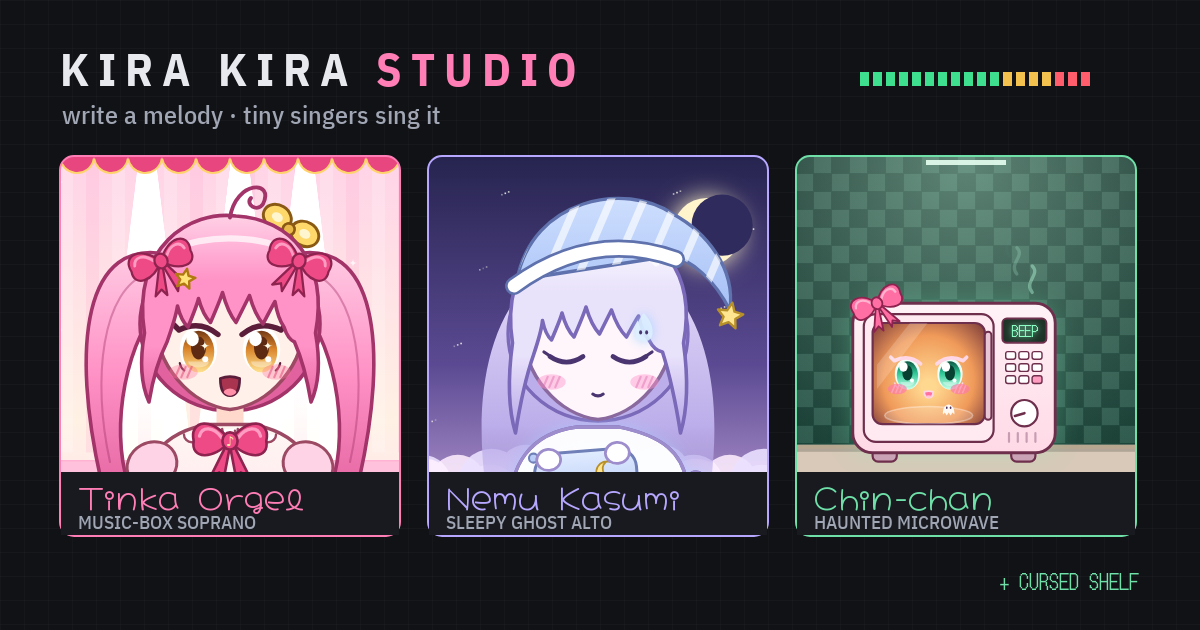
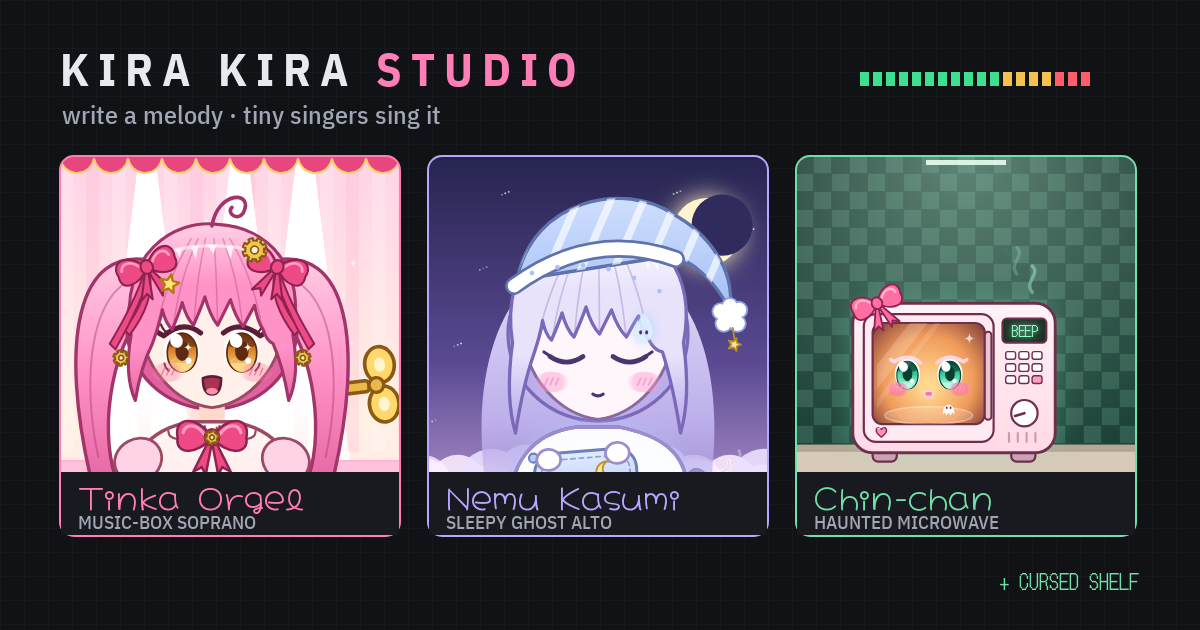
Kira Kira Studio v1.2: portrait polish for pochinia - layered anime eyes, softer blush, hair shine, Tinka's wind-up key and gear charms, Nemu's pom, tail wisps and stitched pillow, a heart sticker on Chin-chan

diff --git a/apps/kirakira-studio/index.html b/apps/kirakira-studio/index.html
@@ -202,7 +202,7 @@ footer{display:flex;justify-content:space-between;gap:.5rem;flex-wrap:wrap;font-
   </section>
 
   <footer><span>Original singers. Public-domain melodies + one original jingle. Every voice is synthesised in your browser.</span>
-    <span id="buildstamp" role="note" aria-label="Build information">build v1.1 · 2026-10-10</span></footer>
+    <span id="buildstamp" role="note" aria-label="Build information">build v1.2 · 2026-10-10</span></footer>
 </main>
 
 <div class="transport" role="region" aria-label="Transport">
@@ -698,12 +698,138 @@ var EXTRAS = {
   }
 };
 
+/* ---------- the backing band: key + chords from the melody, then drums/bass/keys per genre ---------- */
+var KPROF = [6.35, 2.23, 3.48, 2.33, 4.38, 4.09, 2.52, 5.19, 2.39, 3.66, 2.29, 2.88];
+var DEG = [[0, 0], [2, 1], [4, 1], [5, 0], [7, 0], [9, 1]], DEGP = [.35, .05, 0, .2, .28, .15];
+function keyOf(tl){
+  var h = new Array(12).fill(0); tl.forEach(function(x){ h[((x.p % 12) + 12) % 12] += x.d; });
+  var best = 0, bs = -1e9;
+  for (var k = 0; k < 12; k++) { var s = 0; for (var i = 0; i < 12; i++) s += h[(i + k) % 12] * KPROF[i]; if (s > bs) { bs = s; best = k; } }
+  return best;
+}
+function chordsFor(tl, key, segs, seg8){
+  /* one chord per half bar: chord tones score, clashes cost, staying put and I at both ends are cheap */
+  var out = [], prev = 0;
+  for (var h = 0; h < segs; h++) {
+    var a = h * seg8, b = a + seg8, best = prev, bs = -1e9, any = false;
+    for (var c = 0; c < DEG.length; c++) {
+      var root = (key + DEG[c][0]) % 12, tones = DEG[c][1] ? [0, 3, 7] : [0, 4, 7], s = DEGP[c] + (c === prev ? .3 : 0);
+      if (h === 0 && c === 0) s += .8;
+      if (h >= segs - 2 && c === 0) s += h === segs - 1 ? 1.4 : .2;
+      tl.forEach(function(x){
+        var o = Math.min(b, x.t8 + x.d) - Math.max(a, x.t8); if (o <= 0) return; any = true;
+        var iv = (((x.p % 12) + 12) % 12 - root + 12) % 12;
+        s += o * (tones.indexOf(iv) >= 0 ? 1 : [0, 2, 4, 5, 7, 9, 11].indexOf((iv + root - key + 24) % 12) >= 0 ? -.25 : -1.2);
+      });
+      if (s > bs) { bs = s; best = c; }
+    }
+    if (!any) best = prev;
+    out.push({ root: (key + DEG[best][0]) % 12, minor: DEG[best][1], deg: best });
+    prev = best;
+  }
+  return out;
+}
+function bOsc(buf, sr, t, dur, f, o){
+  /* o: wave saw|tri|sine, amp, atk, dec (exp decay s) or 0 = sustain, rel, lp (one-pole cutoff Hz), det (cents), drive */
+  var a = Math.round(t * sr), n = Math.round((dur + (o.rel || .02)) * sr), ph = Math.random(), ph2 = Math.random(), lp1 = 0, lp2 = 0;
+  var k = o.lp ? 1 - Math.exp(-2 * Math.PI * o.lp / sr) : 1, f2 = f * Math.pow(2, (o.det || 0) / 1200), atk = o.atk || .004, rel = o.rel || .02;
+  for (var j = 0; j < n; j++) {
+    var i = a + j; if (i < 0) continue; if (i >= buf.length) break;
+    var tt = j / sr, e = Math.min(1, tt / atk) * (o.dec ? Math.exp(-tt / o.dec) : 1) * (tt > dur ? Math.max(0, 1 - (tt - dur) / rel) : 1);
+    ph += f / sr; if (ph >= 1) ph -= 1; ph2 += f2 / sr; if (ph2 >= 1) ph2 -= 1;
+    var s;
+    if (o.wave === 'saw') s = (2 * ph - 1) + (o.det ? 2 * ph2 - 1 : 0);
+    else if (o.wave === 'tri') s = (ph < .5 ? 4 * ph - 1 : 3 - 4 * ph);
+    else s = Math.sin(6.2832 * ph) + (o.h2 ? o.h2 * Math.sin(12.566 * ph) : 0) + (o.h3 ? o.h3 * Math.sin(18.85 * ph) * Math.exp(-tt * 6) : 0);
+    if (o.drive) s = Math.tanh(s * o.drive);
+    lp1 += (s - lp1) * k; lp2 += (lp1 - lp2) * k;
+    buf[i] += (o.lp ? lp2 : s) * e * (o.amp || .2);
+  }
+}
+function bDrum(buf, sr, t, kind, amp, rnd){
+  var n, a = Math.round(t * sr), ph = 0, lp = 0, hp = 0, prev = 0;
+  if (kind === 'kick') { n = Math.round(.32 * sr); for (var j = 0; j < n; j++) { var i = a + j; if (i < 0 || i >= buf.length) continue; var tt = j / sr, f = 45 + 95 * Math.exp(-tt * 28); ph += f / sr; buf[i] += Math.sin(6.2832 * ph) * Math.exp(-tt * 9) * amp + (j < 40 ? rnd() * .3 * amp * (1 - j / 40) : 0); } }
+  else if (kind === 'snare' || kind === 'rim') {
+    n = Math.round((kind === 'rim' ? .06 : .2) * sr);
+    for (j = 0; j < n; j++) { i = a + j; if (i < 0 || i >= buf.length) continue; tt = j / sr; var x = rnd(); hp = x - prev; prev = x; lp += (hp - lp) * .5;
+      ph += (kind === 'rim' ? 820 : 190) / sr; buf[i] += (lp * 1.1 * Math.exp(-tt * (kind === 'rim' ? 60 : 17)) + Math.sin(6.2832 * ph) * Math.exp(-tt * 30) * .6) * amp; }
+  } else if (kind === 'hat' || kind === 'crash' || kind === 'shaker') {
+    var len = kind === 'crash' ? 1.4 : kind === 'shaker' ? .07 : .045, dk = kind === 'crash' ? 2.6 : kind === 'shaker' ? 40 : 75;
+    n = Math.round(len * sr);
+    for (j = 0; j < n; j++) { i = a + j; if (i < 0 || i >= buf.length) continue; tt = j / sr; x = rnd(); hp = x - prev; prev = x; var sh = kind === 'shaker' ? Math.min(1, tt / .015) : 1; buf[i] += hp * .5 * Math.exp(-tt * dk) * sh * amp; }
+  }
+}
+var GENRES = {
+  pop:     { swing: 0,   lvl: .62, drums: 1 },
+  sad:     { swing: 0,   lvl: .5,  drums: 1 },
+  rock:    { swing: 0,   lvl: .75, drums: 1 },
+  lullaby: { swing: .16, lvl: .45, drums: 0 }
+};
+function hzm(m){ return 440 * Math.pow(2, (m - 69) / 12); }
+function band(song, P, genre, sr, N){
+  var G = GENRES[genre]; if (!G || !P.tl.length) return null;
+  var tl = P.tl, e8 = P.spb8, lead = P.lead, key = keyOf(tl), rnd = mkRnd(4242), buf = new Float32Array(N);
+  var last = 0; tl.forEach(function(x){ last = Math.max(last, x.t8 + x.d); });
+  var bars = Math.max(1, Math.ceil(last / 8)), segs = bars * 2, ch = chordsFor(tl, key, segs, 4);
+  /* keep the band in a friendly register whatever octave the singer is in */
+  function nearest(pc, around){ var m = around - 6 + ((pc - (around - 6)) % 12 + 12) % 12; return m; }
+  function at(e){ var sw = (e % 2 === 1) ? G.swing * e8 : 0; return lead + e * e8 + sw; }
+  function triad(c, around){ var r = nearest(c.root, around); return [r, r + (c.minor ? 3 : 4), r + 7]; }
+  /* one bar of count-in for the drums, a pickup for the keys */
+  if (G.drums) for (var q = 0; q < 4; q++) bDrum(buf, sr, lead - 8 * e8 + q * 2 * e8, genre === 'rock' ? 'rim' : 'hat', genre === 'rock' ? .5 : .55, rnd);
+  for (var h = 0; h < segs; h++) {
+    var c = ch[h], e0 = h * 4, bass = nearest(c.root, 40), tri = triad(c, 62);
+    if (genre === 'pop') {
+      bOsc(buf, sr, at(e0), e8 * 1.6, hzm(bass), { wave: 'tri', amp: .5, dec: .5, lp: 900, rel: .05 });
+      bOsc(buf, sr, at(e0 + 2), e8 * .9, hzm(bass + (h % 2 ? 7 : 12)), { wave: 'tri', amp: .38, dec: .4, lp: 900, rel: .05 });
+      bOsc(buf, sr, at(e0 + 3), e8 * .8, hzm(bass), { wave: 'tri', amp: .3, dec: .3, lp: 900, rel: .04 });
+      [1, 3].forEach(function(o){ tri.forEach(function(m){ bOsc(buf, sr, at(e0 + o), e8 * .7, hzm(m), { amp: .09, dec: .35, h2: .35, h3: .2, rel: .06 }); }); });
+      bDrum(buf, sr, at(e0), 'kick', .9, rnd); bDrum(buf, sr, at(e0 + 2), 'snare', .55, rnd);
+      if (h % 2) bDrum(buf, sr, at(e0 + 3), 'kick', .5, rnd);
+      for (q = 0; q < 4; q++) bDrum(buf, sr, at(e0 + q), 'hat', q % 2 ? .35 : .5, rnd);
+    } else if (genre === 'rock') {
+      var pr = nearest(c.root, 45);
+      for (q = 0; q < 4; q++) {
+        bOsc(buf, sr, at(e0 + q), e8 * .5, hzm(bass), { wave: 'saw', amp: .32, dec: .2, lp: 520, drive: 2.2, rel: .03 });
+        [pr, pr + 7, pr + 12].forEach(function(m){ bOsc(buf, sr, at(e0 + q), e8 * (q === 0 ? .9 : .45), hzm(m), { wave: 'saw', amp: .085, det: 9, drive: 5, lp: 2200, dec: q === 0 ? .6 : .12, rel: .03 }); });
+      }
+      bDrum(buf, sr, at(e0), 'kick', 1, rnd); bDrum(buf, sr, at(e0 + 2), 'snare', .8, rnd);
+      if (h % 2 === 0) bDrum(buf, sr, at(e0 + 1), 'kick', .55, rnd);
+      for (q = 0; q < 4; q++) bDrum(buf, sr, at(e0 + q), 'hat', .45, rnd);
+      if (h % 8 === 0) bDrum(buf, sr, at(e0), 'crash', .55, rnd);
+    } else if (genre === 'sad') {
+      bOsc(buf, sr, at(e0), e8 * 4, hzm(bass), { amp: .45, atk: .02, dec: 1.6, rel: .25, h2: .2 });
+      tri.forEach(function(m){ bOsc(buf, sr, at(e0), e8 * 4, hzm(m), { wave: 'saw', amp: .028, det: 12, atk: .35, lp: 900, rel: .4 }); });
+      var arp = [tri[0], tri[1] + 12, tri[2], tri[1] + 12 - (h % 2 ? 0 : 0)];
+      arp.forEach(function(m, k){ bOsc(buf, sr, at(e0 + k), e8 * 1.6, hzm(m + 12), { amp: .1, dec: .55, h2: .25, h3: .15, rel: .2 }); });
+      if (h % 2 === 0) bDrum(buf, sr, at(e0), 'kick', .45, rnd); else bDrum(buf, sr, at(e0), 'rim', .3, rnd);
+      bDrum(buf, sr, at(e0 + 2), 'shaker', .18, rnd);
+    } else if (genre === 'lullaby') {
+      if (h % 2 === 0) bOsc(buf, sr, at(e0), e8 * 7.5, hzm(bass + 12), { amp: .3, atk: .05, dec: 2.2, rel: .3 });
+      tri.forEach(function(m){ bOsc(buf, sr, at(e0), e8 * 4, hzm(m), { wave: 'tri', amp: .03, atk: .4, lp: 1400, rel: .5 }); });
+      [tri[0] + 12, tri[2] + 12, tri[1] + 24, tri[2] + 12].forEach(function(m, k){
+        var f = hzm(m); addTone(buf, sr, at(e0 + k), 1.2, [[f, 1, .6], [f * 2, .15, .2], [f * 6.27, .12, .04]], .07, 'bell');
+      });
+    }
+  }
+  /* last chord rings out on the downbeat after the song */
+  var lc = ch[segs - 1], lt = at(bars * 8), lb = nearest(lc.root, 40);
+  if (genre === 'rock') { bDrum(buf, sr, lt, 'crash', .8, rnd); bDrum(buf, sr, lt, 'kick', 1, rnd); [lb + 5, lb + 12, lb + 17].forEach(function(m){ bOsc(buf, sr, lt, 1.6, hzm(m), { wave: 'saw', amp: .08, det: 9, drive: 5, lp: 2200, dec: 1.2, rel: .3 }); }); }
+  else if (genre === 'lullaby') { var f = hzm(nearest(lc.root, 74)); addTone(buf, sr, lt, 2.4, [[f, 1, 1.2], [f * 2, .15, .4]], .08, 'bell'); }
+  else { triad(lc, 62).forEach(function(m){ bOsc(buf, sr, lt, 1.5, hzm(m), { amp: .1, dec: 1.1, h2: .3, rel: .3 }); }); bOsc(buf, sr, lt, 1.5, hzm(lb), { wave: genre === 'pop' ? 'tri' : 'sine', amp: .45, dec: 1, lp: 900, rel: .3 }); if (genre === 'pop') bDrum(buf, sr, lt, 'kick', .9, rnd); }
+  P.key = key; P.chords = ch; P.bandEnd = lt + 1.8;
+  return { buf: buf, lvl: G.lvl };
+}
+
 /* ---------- render a song for a bank ---------- */
 function render(song, V, sr){
   sr = sr || 32000;
+  var genre = GENRES[song.genre] ? song.genre : null;
+  if (genre) V = Object.assign({}, V, { lead: Math.max(V.lead || .3, 8 * 60 / song.bpm / 2 + .15) });
   var P = plan(song, V), tl = P.tl;
   if (V.cutPhrase) tl.forEach(function(x){ if (x.pEnd && x.d >= 3) x.cut = x.s + (x.e - x.s) * .55; });
   var end = (tl.length ? tl[tl.length - 1].e : P.lead) + (V.tail || 1.4);
+  if (genre && tl.length) { var last8 = 0; tl.forEach(function(x){ last8 = Math.max(last8, x.t8 + x.d); }); end = Math.max(end, P.lead + Math.ceil(last8 / 8) * 8 * P.spb8 + 2.2); }
   var N = Math.ceil(end * sr), out = new Float32Array(N);
   var parts = V.choir || [{}];
   parts.forEach(function(pt, k){ var p2 = Object.assign({ seed: 1234 + k * 977 }, pt), sg = renderVoice(P, V, sr, out, p2); if (!k) P.segs = sg; });
@@ -719,6 +845,17 @@ function render(song, V, sr){
   var rnd = mkRnd(777);
   (V.extras || []).forEach(function(n){ if (EXTRAS[n]) EXTRAS[n](out, sr, P, V, rnd); });
   reverb(out, sr, V.verb || 0, V.room || 1);
+  if (genre) {
+    var B = band(song, P, genre, sr, N);
+    if (B) {
+      /* the band sits under the voice: its own loudness match, then a touch of the same room */
+      var rb = [];
+      for (w0 = 0; w0 + W <= N; w0 += W) { ss = 0; for (j = w0; j < w0 + W; j++) ss += B.buf[j] * B.buf[j]; ss = Math.sqrt(ss / W); if (ss > 1e-4) rb.push(ss); }
+      rb.sort(function(a, b){ return a - b; });
+      var qb = rb.length ? rb[Math.floor(rb.length * .9)] : 0;
+      if (qb > 0) { reverb(B.buf, sr, .1, 1); var gb = .17 * B.lvl / qb; for (i = 0; i < N; i++) out[i] += B.buf[i] * gb; }
+    }
+  }
   /* gentle limiter: nothing past ~0.9 */
   for (i = 0; i < N; i++) { var v = out[i]; out[i] = v > .7 ? .7 + Math.tanh((v - .7) / .3) * .25 : v < -.7 ? -.7 - Math.tanh((-v - .7) / .3) * .25 : v; }
   return { buf: out, sr: sr, dur: end, tl: tl, P: P };
@@ -738,7 +875,7 @@ function parseMelody(str){
   return { notes: notes, len: t };
 }
 
-return { render: render, plan: plan, tokenize: tokenize, parseSyl: parseSyl, parseMelody: parseMelody, hz: hz, VOW: VOW, OPEN: OPEN, kanaToRomaji: kanaToRomaji };
+return { render: render, band: band, GENRES: GENRES, plan: plan, tokenize: tokenize, parseSyl: parseSyl, parseMelody: parseMelody, hz: hz, VOW: VOW, OPEN: OPEN, kanaToRomaji: kanaToRomaji };
 })();
 if (typeof module !== 'undefined') module.exports = KKSynth;
 </script>
@@ -755,7 +892,7 @@ function HEART(g, x, y, r){ g.beginPath(); g.moveTo(x, y + r * .9); g.bezierCurv
 
 function face(g, S){
   g.beginPath(); g.moveTo(-50, -12); g.bezierCurveTo(-52, -64, 52, -64, 50, -12); g.bezierCurveTo(50, 20, 26, 46, 0, 49); g.bezierCurveTo(-26, 46, -50, 20, -50, -12); g.closePath();
-  FS(g, S.skin, S.line, 2.4);
+  FS(g, S.skin, S.line, 2);
 }
 function eyes(g, S, st, sc){
   var shut = st.blink > .5 || st.shut, lid = st.lid == null ? (S.sleepy || 0) : st.lid;
@@ -775,8 +912,14 @@ function eyes(g, S, st, sc){
     g.save(); E(g, 0, 1, 12.5, 15.5); g.clip();
     var gr = g.createLinearGradient(0, -14, 0, 16); gr.addColorStop(0, S.eye[0]); gr.addColorStop(.48, S.eye[1]); gr.addColorStop(1, S.eye[2]);
     E(g, lk, 2.5, 10.5, 14); g.fillStyle = gr; g.fill();
-    E(g, lk, 0, 5, 7.6); g.fillStyle = S.eye[0]; g.fill();
-    g.beginPath(); g.ellipse(lk, 9, 7, 4, 0, 0, Math.PI); g.fillStyle = 'rgba(255,255,255,.35)'; g.fill();
+    /* layered iris: a dark upper band under the lid, a rim, the pupil, a glowing lower crescent, faint flecks */
+    g.save(); E(g, lk, 2.5, 10.5, 14); g.clip(); E(g, lk, -11, 16, 10.5); g.globalAlpha = .6; g.fillStyle = S.eye[0]; g.fill(); g.restore();
+    E(g, lk, 1, 4.8, 7.2); g.fillStyle = S.eye[0]; g.fill();
+    g.beginPath(); g.ellipse(lk, 9.6, 7.6, 4.8, 0, 0, Math.PI); g.globalAlpha = .7; g.fillStyle = S.eye[2]; g.fill(); g.globalAlpha = 1;
+    g.strokeStyle = S.eye[2]; g.globalAlpha = .35; g.lineWidth = .9;
+    for (var fk = 0; fk < 5; fk++) { var fa = Math.PI * (.15 + fk * .17); g.beginPath(); g.moveTo(lk + Math.cos(fa) * 5.5, 2.5 + Math.sin(fa) * 7.5); g.lineTo(lk + Math.cos(fa) * 9, 2.5 + Math.sin(fa) * 12); g.stroke(); }
+    g.globalAlpha = 1;
+    E(g, lk, 2.5, 10.5, 14); g.lineWidth = 1.2; g.strokeStyle = S.eye[0]; g.stroke();
     var lt = -17 + 17 * lid, LS = S.lashShape || [4, 6, 3, 1];
     if (lid > 0) {
       /* the lid follows the lash curve (outer corner lower on droopy eyes), never a flat bar */
@@ -785,13 +928,14 @@ function eyes(g, S, st, sc){
     }
     g.restore();
     var hy = Math.max(-6, lt + 5);
-    E(g, lk - 4, hy, 4.2, 4.8); g.fillStyle = '#fff'; g.fill();
-    E(g, lk + 4.5, 7.5, 2, 2); g.fill();
+    E(g, lk - 4, hy, 4.4, 5, -.35); g.fillStyle = '#fff'; g.fill();
+    E(g, lk + 4.5, 8, 2.1, 2.1); g.fill();
     if (S.starEye) { SPK(g, lk + 4.2, -1.5, 3.4); g.fillStyle = '#fffbe6'; g.fill(); }
     g.save(); g.scale(s, 1);
     var top = lid > 0 ? lt : -14;
     g.beginPath(); g.moveTo(-13, top + LS[0]); g.quadraticCurveTo(-1, top - (lid > 0 ? LS[1] * .35 : LS[1]), 13, top + LS[2]); g.lineTo(16.5, top + LS[3]);
     FS(g, null, S.lash, 3.6);
+    if (S.flicks) { g.beginPath(); g.moveTo(14, top + LS[2] - .5); g.quadraticCurveTo(18, top + LS[3] - 2, 20, top + LS[3] - 5.5); g.moveTo(11, top + LS[2] - 2); g.quadraticCurveTo(14, top + LS[2] - 5, 15, top + LS[2] - 8); FS(g, null, S.lash, 1.6); }
     g.beginPath(); g.moveTo(9.5, 15); g.quadraticCurveTo(12, 13, 12.5, 10); FS(g, null, S.lash, 1.4);
     g.restore();
     g.restore();
@@ -816,9 +960,10 @@ function mouth(g, S, st, y0){
 function blush(g, S, k){
   k = k == null ? 1 : k;
   for (var s = -1; s <= 1; s += 2) {
-    E(g, s * 31, 24, 9.5, 5.2); g.fillStyle = S.blush; g.globalAlpha = k; g.fill(); g.globalAlpha = 1;
-    g.strokeStyle = S.blushLine; g.lineWidth = 1.4;
-    for (var i = 0; i < 3; i++) { g.beginPath(); g.moveTo(s * 31 - 5.5 + i * 4, 27.5); g.lineTo(s * 31 - 2.5 + i * 4, 20.5); g.stroke(); }
+    var bg = g.createRadialGradient(s * 31, 24, 0, s * 31, 24, 12); bg.addColorStop(0, S.blush); bg.addColorStop(.6, S.blush); bg.addColorStop(1, 'rgba(255,170,200,0)');
+    E(g, s * 31, 24, 12, 6.8); g.fillStyle = bg; g.globalAlpha = k; g.fill(); g.globalAlpha = 1;
+    g.strokeStyle = S.blushLine; g.lineWidth = 1.1; g.lineCap = 'round';
+    for (var i = 0; i < 3; i++) { g.beginPath(); g.moveTo(s * 31 - 4.5 + i * 3.6, 26); g.lineTo(s * 31 - 2.5 + i * 3.6, 21.5); g.stroke(); }
   }
 }
 function bow(g, x, y, sc, r, c, cl, ln){
@@ -844,13 +989,24 @@ function fringe(g, H, tips, lockR, lockL, top){
   });
   g.quadraticCurveTo(-50, lockL[1] * .45, lockL[0], lockL[1]); g.quadraticCurveTo(-62, lockL[1] * .6, -57, -2);
   g.closePath();
-  FS(g, LG(g, top, 50, [H.l, H.b, H.b, H.d]), H.ln, 2.4);
-  g.save(); g.beginPath(); g.ellipse(0, -52, 40, 13, 0, Math.PI * 1.08, Math.PI * 1.92); FS(g, null, 'rgba(255,255,255,.7)', 4.2); g.restore();
+  FS(g, LG(g, top, 50, [H.l, H.b, H.b, H.d]), H.ln, 2.2);
+  g.save(); g.clip();
+  /* strands from the crown down to each tip */
+  g.strokeStyle = H.ln; g.globalAlpha = .32; g.lineWidth = 1.1;
+  tips.forEach(function(q, i){ if (i % 2) return; g.beginPath(); g.moveTo(q[0] * .35, top + 10); g.quadraticCurveTo(q[0] * .8, (top + q[1]) / 2, q[0] * .97, q[1] - 3); g.stroke(); });
+  g.globalAlpha = 1;
+  /* angel ring: a band of little light shards across the crown */
+  for (var a = 0; a < 9; a++) {
+    var ang = Math.PI * (1.12 + a * .095), x = Math.cos(ang) * 42, y = -50 + Math.sin(ang) * 14, w = 3.2 - Math.abs(a - 4) * .35;
+    g.beginPath(); g.moveTo(x - w, y - 1.5); g.lineTo(x + w, y - 1.5); g.lineTo(x + w * .3, y + 5 + (a % 2) * 3); g.closePath(); g.fillStyle = 'rgba(255,255,255,.8)'; g.fill();
+  }
+  g.beginPath(); g.ellipse(0, -52, 40, 13, 0, Math.PI * 1.1, Math.PI * 1.9); g.strokeStyle = 'rgba(255,255,255,.55)'; g.lineWidth = 2.4; g.stroke();
+  g.restore();
 }
 var FRINGE = [[36, -6], [30, -23], [22, -8], [13, -27], [4, -9], [-5, -29], [-13, -9], [-21, -25], [-28, -6], [-35, -20], [-42, 4]];
 
 /* ── Tinka Orgel: pink music-box idol, twin tails, a winding key in her hair ── */
-var TK = { skin:'#fff1ea', line:'#9c4a64', lash:'#5a1d3a', eye:['#5e2a12', '#d9842a', '#ffe08f'], blush:'rgba(255,120,160,.5)', blushLine:'rgba(226,80,124,.55)', starEye:1, lashShape:[2.5, 7, 4.5, 2.5],
+var TK = { skin:'#fff1ea', line:'#9c4a64', lash:'#5a1d3a', eye:['#5e2a12', '#d9842a', '#ffe08f'], blush:'rgba(255,120,160,.5)', blushLine:'rgba(226,80,124,.55)', starEye:1, flicks:1, lashShape:[2.5, 7, 4.5, 2.5],
   H:{ b:'#ff92c6', l:'#ffd0e6', d:'#e2629f', ln:'#a3346a' } };
 function windKey(g, x, y, t, spin){
   var a = spin ? t * 5 : t * .6, sx = Math.cos(a);
@@ -862,8 +1018,15 @@ function windKey(g, x, y, t, spin){
   g.restore(); E(g, 0, -6, 4, 4); FS(g, '#e9b949', '#8a5a14', 1.8);
   g.restore();
 }
+function GEAR(g, x, y, r, teeth, rot, fill, line){
+  g.save(); g.translate(x, y); g.rotate(rot || 0); g.beginPath();
+  for (var i = 0; i < teeth * 2; i++) { var a0 = i * Math.PI / teeth, a1 = (i + 1) * Math.PI / teeth, rr = i % 2 ? r * .78 : r; g.arc(0, 0, rr, a0, a1); }
+  g.closePath(); FS(g, fill, line, 1.5); E(g, 0, 0, r * .32, r * .32); FS(g, '#fff6cf', line, 1.2); g.restore();
+}
 function drawTinka(g, st){
   var t = st.t, H = TK.H, sw = Math.sin(t * 2.1) * 4 * st.m + st.hop * 5;
+  /* the big wind-up key in her back: only its wings poke out past her hair, turning while she sings */
+  g.save(); g.translate(108, 34); g.rotate(Math.PI / 2 - .55 - .12); g.scale(1.3, 1.3); windKey(g, 0, 0, t, st.singing); g.restore();
   for (var s = -1; s <= 1; s += 2) {
     var sx = s * sw * (s > 0 ? 1 : .8);
     g.beginPath(); g.moveTo(s * 40, -54);
@@ -873,7 +1036,6 @@ function drawTinka(g, st){
     FS(g, LG(g, -64, 112, [H.l, H.b, H.d]), H.ln, 2.4);
     g.beginPath(); g.moveTo(s * 54, -42); g.bezierCurveTo(s * 86, -32, s * 92 + sx, 30, s * 80 + sx, 84); FS(g, null, 'rgba(163,52,106,.4)', 1.4);
   }
-  windKey(g, 36, -66, t, st.singing);
   E(g, 0, -8, 60, 58); FS(g, H.d, H.ln, 2.4);
   /* dress */
   g.beginPath(); g.rect(-9, 38, 18, 24); FS(g, '#ffd9cc');
@@ -883,7 +1045,9 @@ function drawTinka(g, st){
   for (var k = -3; k <= 3; k++) { g.beginPath(); g.arc(k * 8.5, 62 + Math.abs(k) * 1.2, 5.2, 0, Math.PI); FS(g, '#ffffff', TK.line, 1.6); }
   g.beginPath(); g.moveTo(-26, 100); g.quadraticCurveTo(0, 108, 26, 100); FS(g, null, '#8fd3ff', 3);
   bow(g, 0, 70, 1.1, 0, '#ee4a86', '#ff9cc2', '#8e2350');
-  g.save(); g.translate(0, 70); g.fillStyle = '#ffe9a6'; g.font = '700 9px sans-serif'; g.textAlign = 'center'; g.fillText('♪', 0, 3.5); g.restore();
+  GEAR(g, 0, 70, 5, 6, t * (st.singing ? 2 : .2), '#f3c650', '#8a5a14');
+  /* music-box comb pattern on the skirt */
+  g.save(); g.strokeStyle = 'rgba(194,61,120,.28)'; g.lineWidth = 1.2; for (k = -4; k <= 4; k++) { g.beginPath(); g.moveTo(k * 7, 112); g.lineTo(k * 7.6, 126); g.stroke(); } g.restore();
   face(g, TK);
   eyes(g, TK, st);
   blush(g, TK, .7 + .3 * st.glow);
@@ -891,16 +1055,28 @@ function drawTinka(g, st){
   fringe(g, H, FRINGE, [54, 44], [-54, 44]);
   /* ahoge + bows on the tails + a star clip */
   g.beginPath(); g.moveTo(0, -79); g.bezierCurveTo(4, -104, 30, -104, 22, -88); g.bezierCurveTo(18, -82, 10, -88, 14, -92); FS(g, null, H.ln, 2.6);
+  /* ribbon streamers from the tail bows, each with a tiny gear charm */
+  for (s = -1; s <= 1; s += 2) {
+    var rs = Math.sin(t * 2.4 + s) * 3 * st.m;
+    for (var r2 = 0; r2 < 2; r2++) {
+      var ox = s * (40 + r2 * 9), ex = s * (58 + r2 * 10) + rs, ey = -2 + r2 * 10;
+      g.beginPath(); g.moveTo(s * 44, -46); g.quadraticCurveTo(ox + rs, -26, ex, ey); g.lineTo(ex + s * 4, ey - 4); g.quadraticCurveTo(ox + 4 * s + rs, -28, s * 48, -46);
+      FS(g, '#ee4a86', '#8e2350', 1.4);
+    }
+    GEAR(g, s * 64 + rs, 14, 5.5, 7, t * (st.singing ? 3 : .4) * s, '#f3c650', '#8a5a14');
+  }
   bow(g, -46, -50, .95, -.35, '#ee4a86', '#ff9cc2', '#8e2350');
   bow(g, 46, -50, .95, .35, '#ee4a86', '#ff9cc2', '#8e2350');
   STAR(g, -30, -38, 7, 3.2, .2); FS(g, '#ffe27a', '#b07a10', 1.6);
+  /* a gold gear hair clip that spins when she sings */
+  GEAR(g, 30, -62, 8.5, 8, t * (st.singing ? 2.6 : .3), '#f3c650', '#8a5a14');
 }
 
 /* ── Nemu Kasumi: a sleepy ghost girl, nightcap, pillow, a soft ghost tail ── */
 var NM = { skin:'#fff6fb', line:'#8a6a9e', lash:'#4a3570', eye:['#33276e', '#8a7be3', '#dcd3ff'], blush:'rgba(255,150,205,.45)', blushLine:'rgba(220,110,170,.45)',
   sleepy:.52, lashShape:[1.5, 5, 6.5, 9.5], idleMouth:'tiny', mouthIn:'#a3507a', tongue:'#ffb1cb', H:{ b:'#e9e2fb', l:'#ffffff', d:'#bcaeea', ln:'#7a68b8' } };
 function drawNemu(g, st){
-  var t = st.t, H = NM.H, w1 = Math.sin(t * 1.3) * 5, tw = Math.sin(t * 1.7) * 6;
+  var t = st.t, H = NM.H, w1 = Math.sin(t * 1.3) * 5, tw = Math.sin(t * 1.7) * 9 * (st.m == null ? 1 : Math.max(.35, st.m));
   /* long wispy hair behind, fading out */
   var hg = g.createLinearGradient(0, -70, 0, 128); hg.addColorStop(0, H.b); hg.addColorStop(.62, H.d); hg.addColorStop(1, 'rgba(188,174,234,0)');
   g.beginPath(); g.moveTo(-48, -40);
@@ -919,9 +1095,20 @@ function drawNemu(g, st){
   FS(g, 'rgba(255,255,255,.96)'); g.restore();
   g.stroke();
   g.lineWidth = 2.2; g.strokeStyle = '#9d8dcc'; g.stroke();
+  /* little wisps trailing off the tail tip */
+  g.save(); g.lineCap = 'round';
+  for (var wi = 0; wi < 3; wi++) {
+    var wx = 74 + wi * 7, wy = 90 + tw * (1 + wi * .25) - wi * 6, wph = Math.sin(t * 2 + wi) * 3;
+    g.globalAlpha = .75 - wi * .2; g.beginPath(); g.moveTo(wx - 4, wy + 2); g.bezierCurveTo(wx + 2, wy - 6 + wph, wx + 9, wy - 2, wx + 6, wy - 9 + wph);
+    g.strokeStyle = '#ffffff'; g.lineWidth = 3.4 - wi * .8; g.stroke(); g.strokeStyle = 'rgba(157,141,204,.6)'; g.lineWidth = .8; g.stroke();
+  }
+  g.restore();
   /* pillow hugged under her chin */
   g.save(); g.translate(-8, 86); g.rotate(-.08);
   RR(g, -34, -16, 68, 32, 13); FS(g, LG(g, -16, 16, ['#e1ecff', '#b9cdf6']), '#6f7fb8', 2);
+  /* stitching around the pillow */
+  g.save(); g.setLineDash([3, 2.6]); RR(g, -29.5, -11.5, 59, 23, 9); g.strokeStyle = 'rgba(111,127,184,.7)'; g.lineWidth = 1.1; g.stroke(); g.restore();
+  for (var sd = 0; sd < 3; sd++) { E(g, -6 + sd * 6, 9, 1, 1); FS(g, '#ffffff'); }
   g.beginPath(); g.arc(14, -1, 7, .6, 5.2); g.arc(17, -3, 5.6, 4.9, .9, true); FS(g, '#ffe58f', '#b8902a', 1.2);
   E(g, -34, -14, 3, 3); FS(g, '#b9cdf6', '#6f7fb8', 1.4); E(g, 34, 14, 3, 3); FS(g, '#b9cdf6', '#6f7fb8', 1.4);
   E(g, -24, -12, 8, 7); FS(g, '#fff', '#9d8dcc', 1.8); E(g, 22, -13, 8, 7); FS(g, '#fff', '#9d8dcc', 1.8);
@@ -946,7 +1133,13 @@ function drawNemu(g, st){
   g.restore();
   g.beginPath(); g.moveTo(-56, -40); g.quadraticCurveTo(-4, -78, 52, -58);
   FS(g, null, '#5f72ad', 12); g.beginPath(); g.moveTo(-56, -40); g.quadraticCurveTo(-4, -78, 52, -58); FS(g, null, '#ffffff', 8.5);
-  STAR(g, 84 + fl, -20, 9, 4.2, fl * .05); FS(g, '#ffe58f', '#b8902a', 1.6);
+  /* cuff dots, then a fluffy pom with a little star charm */
+  for (var cd = 0; cd < 6; cd++) { var cx2 = -44 + cd * 17, cy2 = -45 - Math.sin((cd + .5) / 6 * Math.PI) * 14 + cd * 2.4; E(g, cx2, cy2, 1.6, 1.6); FS(g, '#a9c3f7'); }
+  var px = 84 + fl, py = -20;
+  [[0, 0, 8], [-6, -3, 5.5], [6, -4, 5.5], [-4, 5, 5.5], [5, 5, 5.5], [0, -7, 5]].forEach(function(b){ E(g, px + b[0], py + b[1], b[2], b[2]); FS(g, '#ffffff', '#8ea2d6', 1.4); });
+  [[0, 0, 7.4], [-6, -3, 4.9], [6, -4, 4.9], [-4, 5, 4.9], [5, 5, 4.9], [0, -7, 4.4]].forEach(function(b){ E(g, px + b[0], py + b[1], b[2], b[2]); FS(g, '#ffffff'); });
+  g.beginPath(); g.moveTo(px + 2, py + 8); g.lineTo(px + 3, py + 15); FS(g, null, '#b8902a', 1.2);
+  STAR(g, px + 3, py + 19, 4.5, 2, fl * .08); FS(g, '#ffe58f', '#b8902a', 1.2);
   /* hitodama: a little blue wisp that circles her */
   var a = t * .9, hx = Math.cos(a) * 78, hy = -24 + Math.sin(a * 1.3) * 14;
   g.save(); g.globalAlpha = .85; g.shadowColor = '#9fd0ff'; g.shadowBlur = 12;
@@ -990,8 +1183,12 @@ function drawChin(g, st){
   mouth(g, CH, st, 28);
   g.restore();
   /* glass glare */
-  g.globalAlpha = .18 + (fl ? .25 : 0); g.beginPath(); g.moveTo(-70, -10); g.lineTo(-40, -48); g.lineTo(-24, -48); g.lineTo(-70, 12); g.closePath(); FS(g, '#ffffff'); g.globalAlpha = 1;
+  g.globalAlpha = .18 + (fl ? .25 : 0); g.beginPath(); g.moveTo(-70, -10); g.lineTo(-40, -48); g.lineTo(-24, -48); g.lineTo(-70, 12); g.closePath(); FS(g, '#ffffff');
+  g.globalAlpha = .12 + (fl ? .2 : 0); g.beginPath(); g.moveTo(-70, 22); g.lineTo(-18, -48); g.lineTo(-12, -48); g.lineTo(-70, 30); g.closePath(); FS(g, '#ffffff'); g.globalAlpha = 1;
+  var tk = .5 + .5 * Math.sin(t * 2.6); SPK(g, 14, -34, 4 + tk * 3); FS(g, 'rgba(255,255,255,' + (.55 + tk * .4) + ')');
   g.restore();
+  /* heart sticker on the door, a little peeled */
+  HEART(g, -66, 51, 5.2); FS(g, '#ff8fb8', '#8e2350', 1.3); g.beginPath(); g.moveTo(-69, 48); g.lineTo(-66.5, 47); FS(g, null, 'rgba(255,255,255,.85)', 1.2);
   RR(g, 28, -40, 6, 80, 3); FS(g, '#e9c6d4', CH.line, 1.8);
   /* panel: LCD clock, keypad, dial */
   RR(g, 44, -52, 40, 22, 4); FS(g, '#1d3328', CH.line, 1.8);

diff --git a/apps/kirakira-studio/notes.md b/apps/kirakira-studio/notes.md
@@ -23,6 +23,12 @@ pochinia's request (2026-10-10, ~05:15 UTC): a vocaloid-like app with ORIGINAL v
 - The app caches the last 8 renders and pre-renders 0.5 s after an edit. Note taps preview one syllable on the main thread.
 
 ## log
+- 06:12 v1.2 portrait polish (pochinia: "a bit more detailed and cuter"):
+  - All faces: layered anime irises (dark top band, pupil, light lower crescent, flecks) with two catchlights, lids per singer (lashShape) + outer lash flicks on Tinka, soft gradient blush ovals, cleaner line weight, hair strands + a shine band in the fringe.
+  - Tinka: a big gold wind-up key in her back (drawn first, only the wings poke out past her right pigtail, turns while she sings), ribbon streamers from the tail bows with spinning gear charms, a gear hair clip, a gear on the chest bow, music-box comb lines on the skirt. The old key in her hair is gone.
+  - Nemu: fluffy pom + tiny star charm on the nightcap tip, dots on the cap cuff, 3 ghost-tail wisps, a stronger tail sway (9 px), stitched pillow. No ahoge: her cap covers the crown (tried one, it read as a stray line).
+  - Chin-chan (light): a second glass glare streak, a twinkle on the glass, a peeling heart sticker on the door.
+  - Before/after grid probe: scratchpad hm/kks/grid.js (loads hm/kks/art_old.js = v1.1 art in a Function wrapper). Shown on stream.
 - 05:59 v1.1:
   - Volume: pochinia found v1.0 too loud. The default is now about 6 dB lower (gain = (vol/100)^2, default 67). A speaker button + slider sit in the transport; on phones the button opens a popover. Saved in 'kks-vol'. The meters read pre-fader.
   - A first visit opens with Nemu + "Five More Minutes" (her app hook).
